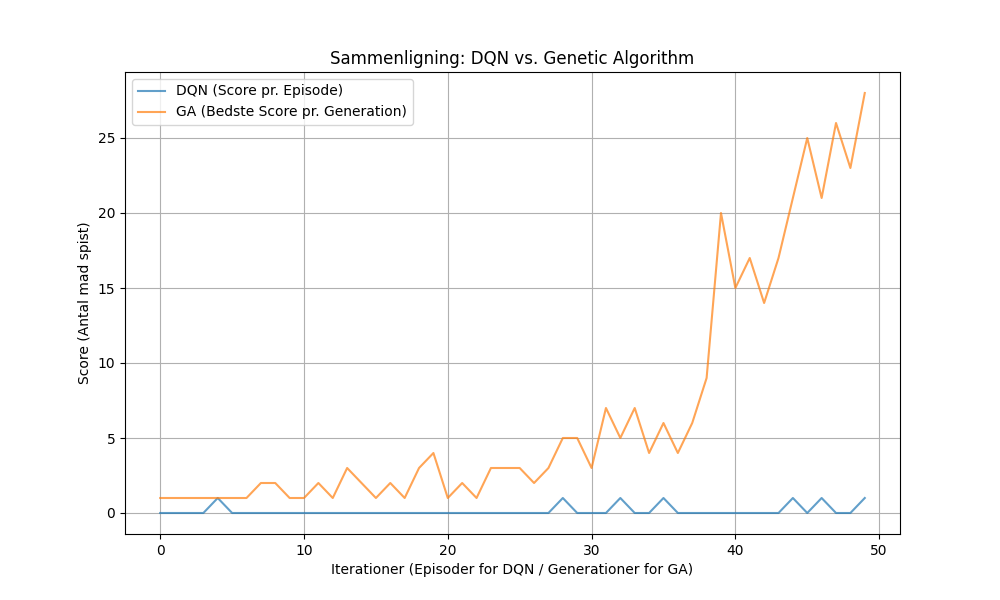
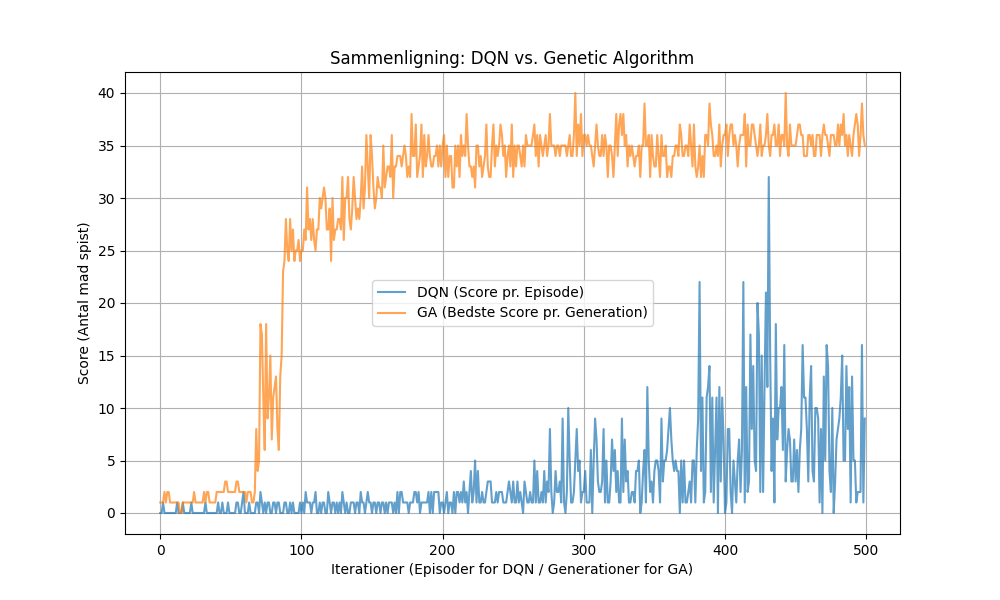
træning

diff --git a/compare_models.py b/compare_models.py
@@ -1,33 +1,60 @@
 import matplotlib.pyplot as plt
+import numpy as np
 from dqn_train import train_dqn
 from ga_train import train_ga
 
 def run_comparison():
-    # Sæt iterationer. Af hensyn til hastighed, lad os teste 200.
-    iterations = 500
+    # Kør begge modeller
+    dqn_episodes = 2000
+    ga_generations = 100
+    ga_pop_size = 50  # Din population_size i GAConfig er 50
 
     print("--- Træner Deep Q-Learning (DQN) ---")
-    dqn_scores = train_dqn(episodes=iterations, record_every=0)
-
+    dqn_data = train_dqn(episodes=dqn_episodes, record_every=0)
+    
     print("\n--- Træner Genetic Algorithm (GA) ---")
-    ga_scores = train_ga(generations=iterations, record_every=0)
+    ga_data = train_ga(generations=ga_generations, record_every=0)
 
-    # Tegn grafen
-    plt.figure(figsize=(10, 6))
+    # --- Udpak data ---
+    dqn_times = [d[0] for d in dqn_data]
+    dqn_scores = [d[1] for d in dqn_data]
+    dqn_games = list(range(1, dqn_episodes + 1))
     
-    # Plottes som linjer med små markører
-    plt.plot(dqn_scores, label="DQN (Score pr. Episode)", alpha=0.7)
-    plt.plot(ga_scores, label="GA (Bedste Score pr. Generation)", alpha=0.7)
+    ga_times = [g[0] for g in ga_data]
+    ga_scores = [g[1] for g in ga_data]
+    ga_games = [i * ga_pop_size for i in range(1, ga_generations + 1)] # 50, 100, 150...
+
+    # Lav et glidende gennemsnit (moving average) for DQN
+    window = 50
+    dqn_avg_scores = np.convolve(dqn_scores, np.ones(window)/window, mode='valid')
+    dqn_times_smoothed = dqn_times[window-1:]
+    dqn_games_smoothed = dqn_games[window-1:]
+
+    # --- Opsæt graf med 2 undergrafer (Subplots) ---
+    fig, (ax1, ax2) = plt.subplots(1, 2, figsize=(14, 6))
     
-    plt.title("Sammenligning: DQN vs. Genetic Algorithm")
-    plt.xlabel("Iterationer (Episoder for DQN / Generationer for GA)")
-    plt.ylabel("Score (Antal mad spist)")
-    plt.legend()
-    plt.grid(True)
-    
-    # Gem graf til rapporten og vis den på skærmen
-    plt.savefig("comparison_plot.png")
-    print("\nGraf gemt som 'comparison_plot.png'")
+    # 1. Graf: Score baseret på TID (Jeres RQ)
+    ax1.plot(dqn_times_smoothed, dqn_avg_scores, label="DQN (Glidende Gns.)", color="blue")
+    ax1.plot(ga_times, ga_scores, label="GA (Bedste i generationen)", color="orange", marker="o", markersize=4)
+    ax1.set_title("Læring over Tid (Sekunder) - RQ Svar")
+    ax1.set_xlabel("Træningstid (Sekunder)")
+    ax1.set_ylabel("Point (Antal mad spist)")
+    ax1.legend()
+    ax1.grid(True)
+
+    # 2. Graf: Score baseret på ANTAL SPIL (Erfaring) - Giver en pænere kurve for GA
+    ax2.plot(dqn_games_smoothed, dqn_avg_scores, label="DQN (Glidende Gns.)", color="blue")
+    ax2.plot(ga_games, ga_scores, label="GA (Bedste i generationen)", color="orange", marker="o", markersize=4)
+    ax2.set_title("Læring pr. Spillet Spil (Erfaring)")
+    ax2.set_xlabel("Antal Spil")
+    ax2.set_ylabel("Point (Antal mad spist)")
+    ax2.legend()
+    ax2.grid(True)
+
+    # Afslut og gem
+    plt.tight_layout()
+    plt.savefig("dual_comparison_plot.png", dpi=300)
+    print("\nGraf gemt som 'dual_comparison_plot.png' - Dobbelt graf klar til rapporten!")
     plt.show()
 
 if __name__ == "__main__":

diff --git a/ga_train.py b/ga_train.py
@@ -101,11 +101,13 @@ def record_episode(genome: Genome, filename: str, *, max_steps: int = 1000):
 
 
 def train_ga(generations: int = 100, record_every: int = 10, recordings_dir: str = "recordings"):
+    import time
     config = GAConfig(generations=generations)
     env = SnakeEnv(render=False, speed=0)
 
     population = [Genome() for _ in range(config.population_size)]
-    best_scores_history = []
+    history = []
+    start_time = time.time() # Start stopuret
 
     for generation in range(1, config.generations + 1):
         scored = []
@@ -116,17 +118,19 @@ def train_ga(generations: int = 100, record_every: int = 10, recordings_dir: str
         scored.sort(key=lambda x: x[0], reverse=True)
         best_fitness, best_score, best_reward, best_genome = scored[0]
         
-        best_scores_history.append(best_score)
+        # Beregn AVERAGE score for hele populationen i denne generation
+        avg_score = sum(s[1] for s in scored) / len(scored)
+        
+        elapsed_time = time.time() - start_time
+        
+        # Gem best_score (den kloge slange) i stedet for gennemsnittet af alle mutationerne
+        history.append((elapsed_time, best_score))
 
-        print(
-            f"Generation {generation} | Best score {best_score} | "
-            f"Reward {best_reward:.2f} | Fitness {best_fitness:.2f}"
-        )
+        print(f"Gen {generation} | Best {best_score} | Avg {avg_score:.2f} | Time {elapsed_time:.1f}s")
 
         if record_every and generation % record_every == 0:
             filename = os.path.join(recordings_dir, f"ga_generation_{generation}.mp4")
             record_score = record_episode(best_genome, filename)
-            print(f"Recorded GA generation {generation} (score {record_score}) -> {filename}")
 
         elites = [genome.copy() for _, _, _, genome in scored[: config.elite_size]]
         next_population = elites[:]
@@ -139,7 +143,7 @@ def train_ga(generations: int = 100, record_every: int = 10, recordings_dir: str
 
         population = next_population
 
-    return best_scores_history
+    return history
 
 if __name__ == "__main__":
     train_ga(generations=50, record_every=0, recordings_dir="recordings")

diff --git a/dqn_train.py b/dqn_train.py
@@ -1,5 +1,6 @@
 import os
 import random
+import time
 from collections import deque
 from dataclasses import dataclass
 
@@ -133,7 +134,7 @@ def train_dqn(episodes: int = 50, record_every: int = 50, recordings_dir: str = 
 
     best_score = 0
     scores_history = []
-
+    start_time = time.time() # Start stopuret
 
     for episode in range(1, episodes + 1):
         state = env.reset()
@@ -152,18 +153,20 @@ def train_dqn(episodes: int = 50, record_every: int = 50, recordings_dir: str = 
 
         score = info.get("score", 0)
         best_score = max(best_score, score)
-        scores_history.append(score)
+        
+        # Gem tidspunkt og score
+        elapsed_time = time.time() - start_time
+        scores_history.append((elapsed_time, score))
 
-        print(f"Episode {episode} | Score {score} | Best {best_score} | Epsilon {agent.epsilon:.3f}")
+        # Print fremskridt hver 10. episode så du kan følge med i terminalen
+        if episode % 10 == 0:
+            print(f"DQN Episode {episode}/{episodes} | Score: {score} | Best: {best_score} | Tid: {elapsed_time:.1f}s | Epsilon: {agent.epsilon:.2f}")
 
         if record_every and episode % record_every == 0:
             filename = os.path.join(recordings_dir, f"dqn_episode_{episode}.mp4")
             record_score = record_episode(agent.model, filename)
-            print(f"Recorded DQN episode {episode} (score {record_score}) -> {filename}")
 
     return scores_history
-
-
 
 if __name__ == "__main__":
     train_dqn(episodes=50, record_every=0)